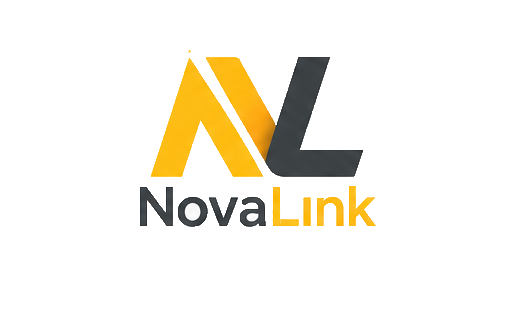
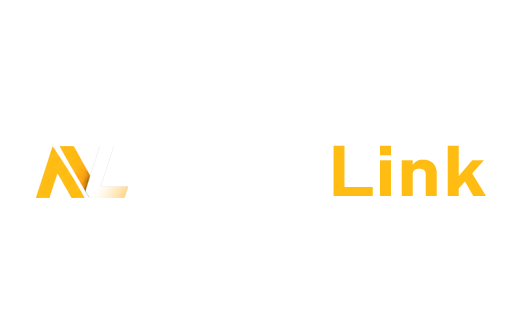
Updated secure CORS configuration

Changed region(s): [[0.062, 0.1524, 0.9612, 0.7012]]

diff --git a/index.html b/index.html
@@ -33,29 +33,8 @@ body{
 }
 
 .logo-img{
-  max-width:150px;
-
- 
-}
-
-.logo{
-  font-size:40px;
-  font-weight:bold;
-  display:flex;
-  align-items:center;
-  gap:10px;
-}
-
-.nova{
-  color:rgb(255, 255, 255);
-}
-
-.link{
-  color:#ffcc00;
-}
-
-.logo span{
-  font-size: 40px;
+  max-width:430px;
+  margin: 0px;
 }
 
 .header-box{
@@ -221,7 +200,6 @@ body{
 
  <div class="logo">
   <img src="Nov.png" alt="Logo" class="logo-img">
-  <span class="nova">Nova</span><span class="link">Link</span>
 </div>
 
   <div class="header-icons">

diff --git a/functions/server.js b/functions/server.js
@@ -1,9 +1,10 @@
+require("dotenv").config();
+
 const axios = require("axios");
 const bcrypt = require("bcrypt");
 const express = require("express");
 const cors = require("cors");
 const { Pool } = require("pg");
-require("dotenv").config();
 
 const app = express();
 
@@ -15,7 +16,13 @@ app.get("/", (req, res) => {
   res.send("Backend is running");
 });
 
-app.use(cors());
+app.use(
+  cors({
+    origin: ["https://papakyereboa-hash.github.io"],
+    methods: ["GET", "POST"],
+    credentials: true
+  })
+);
 app.use(express.json());
 
 // DATABASE CONNECTION